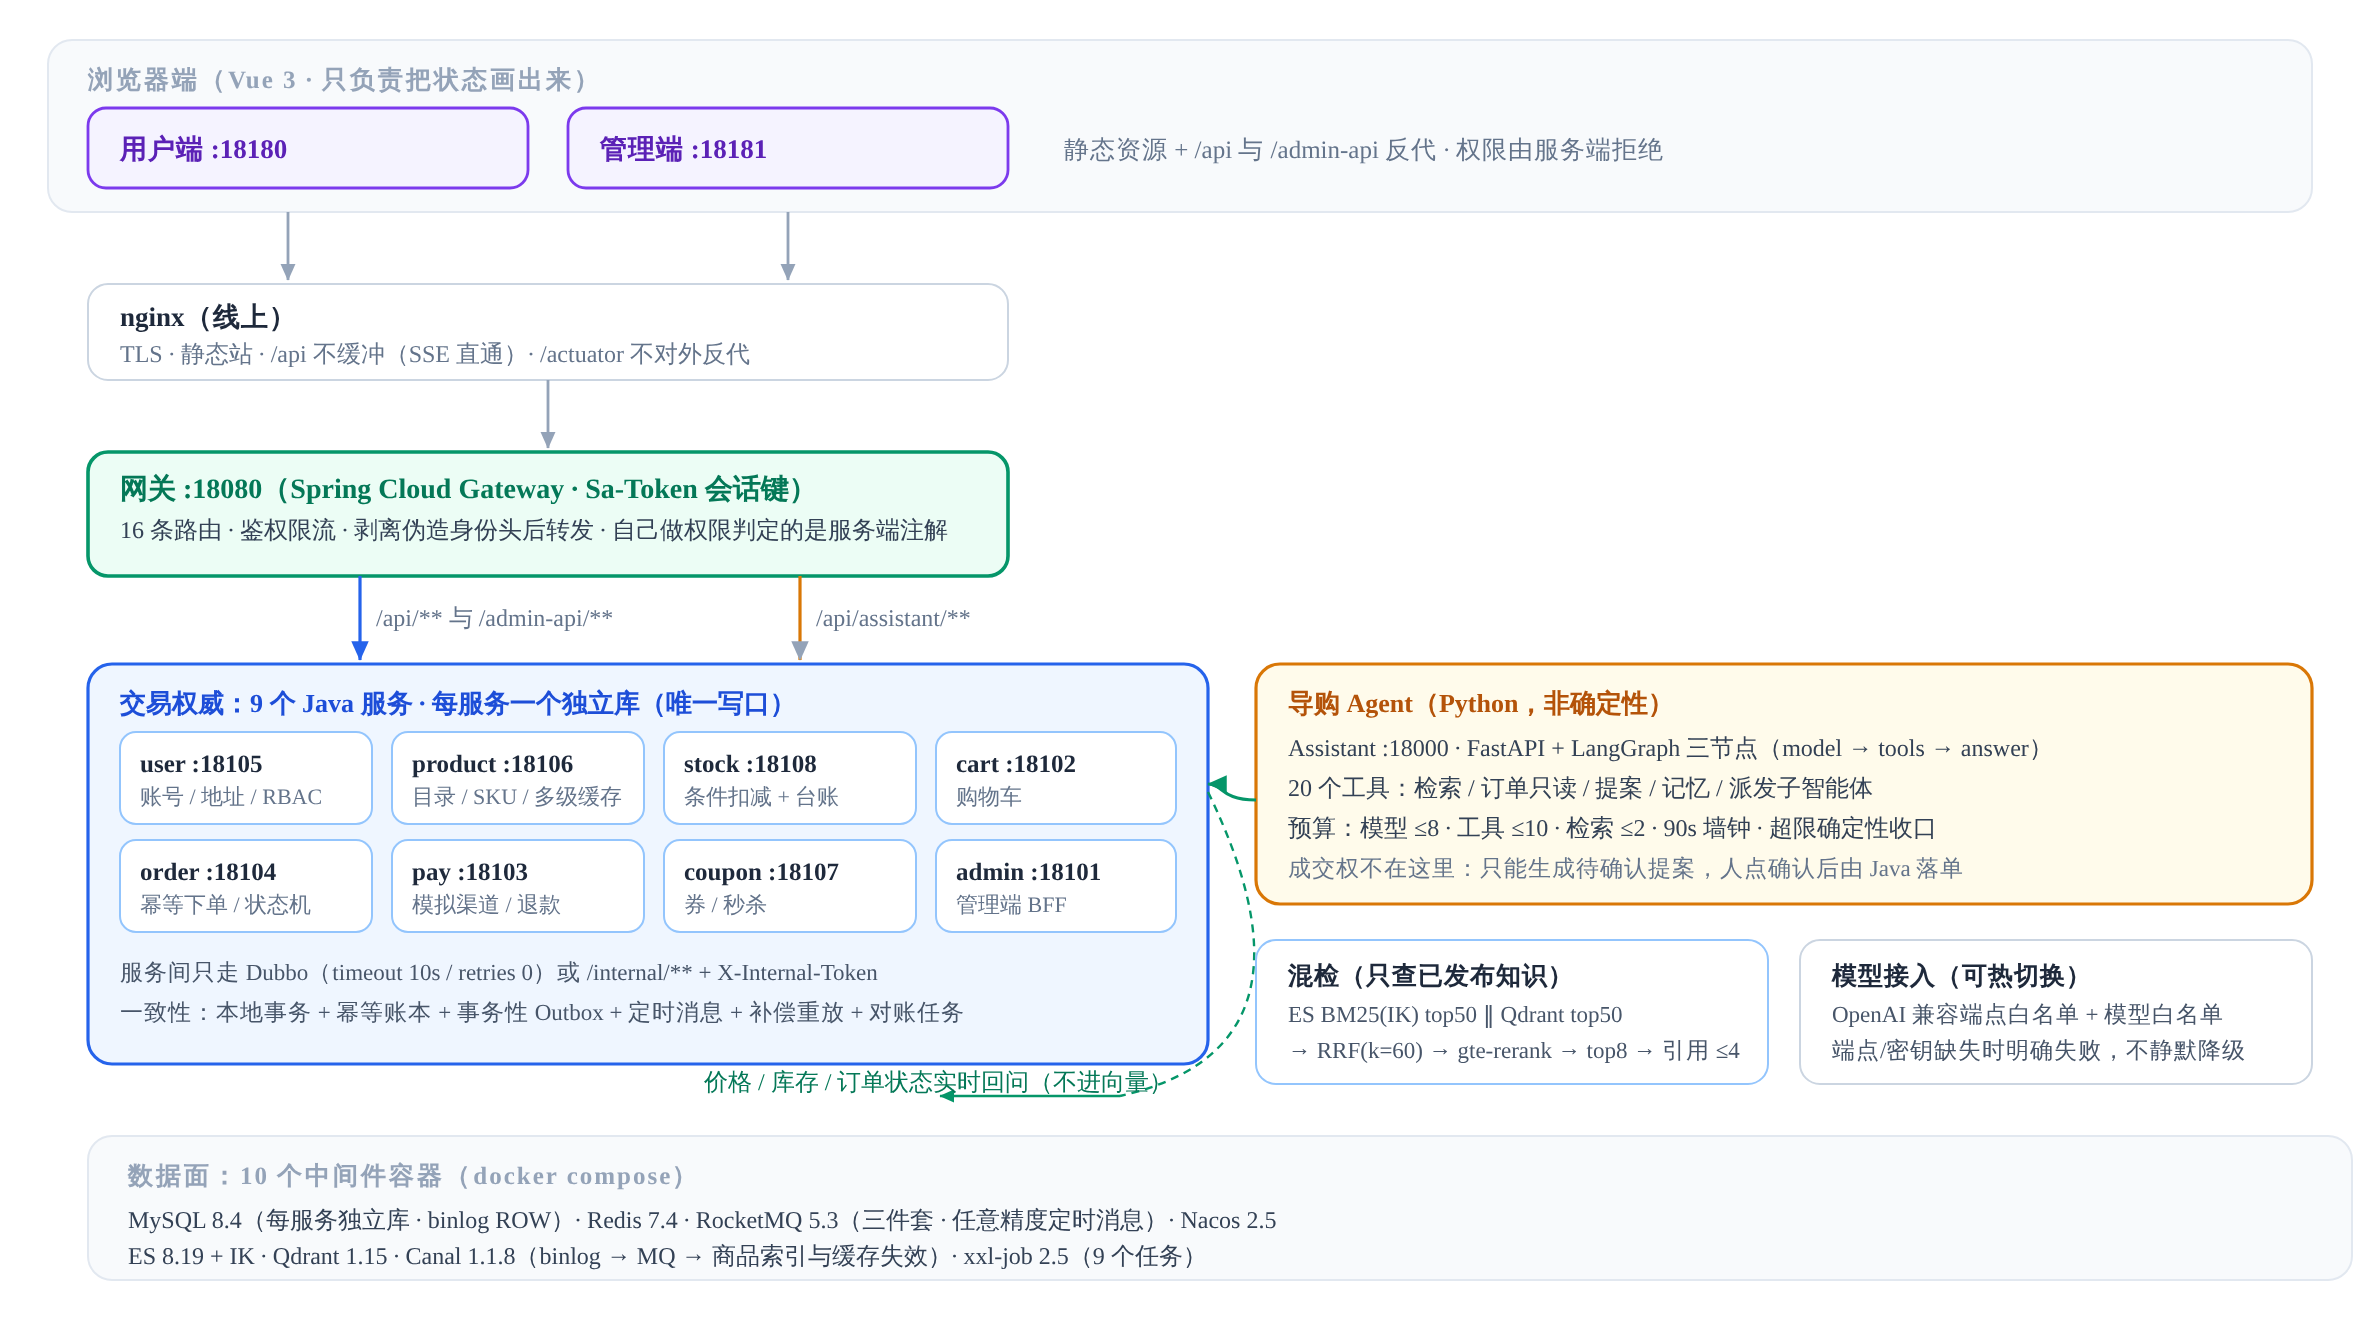
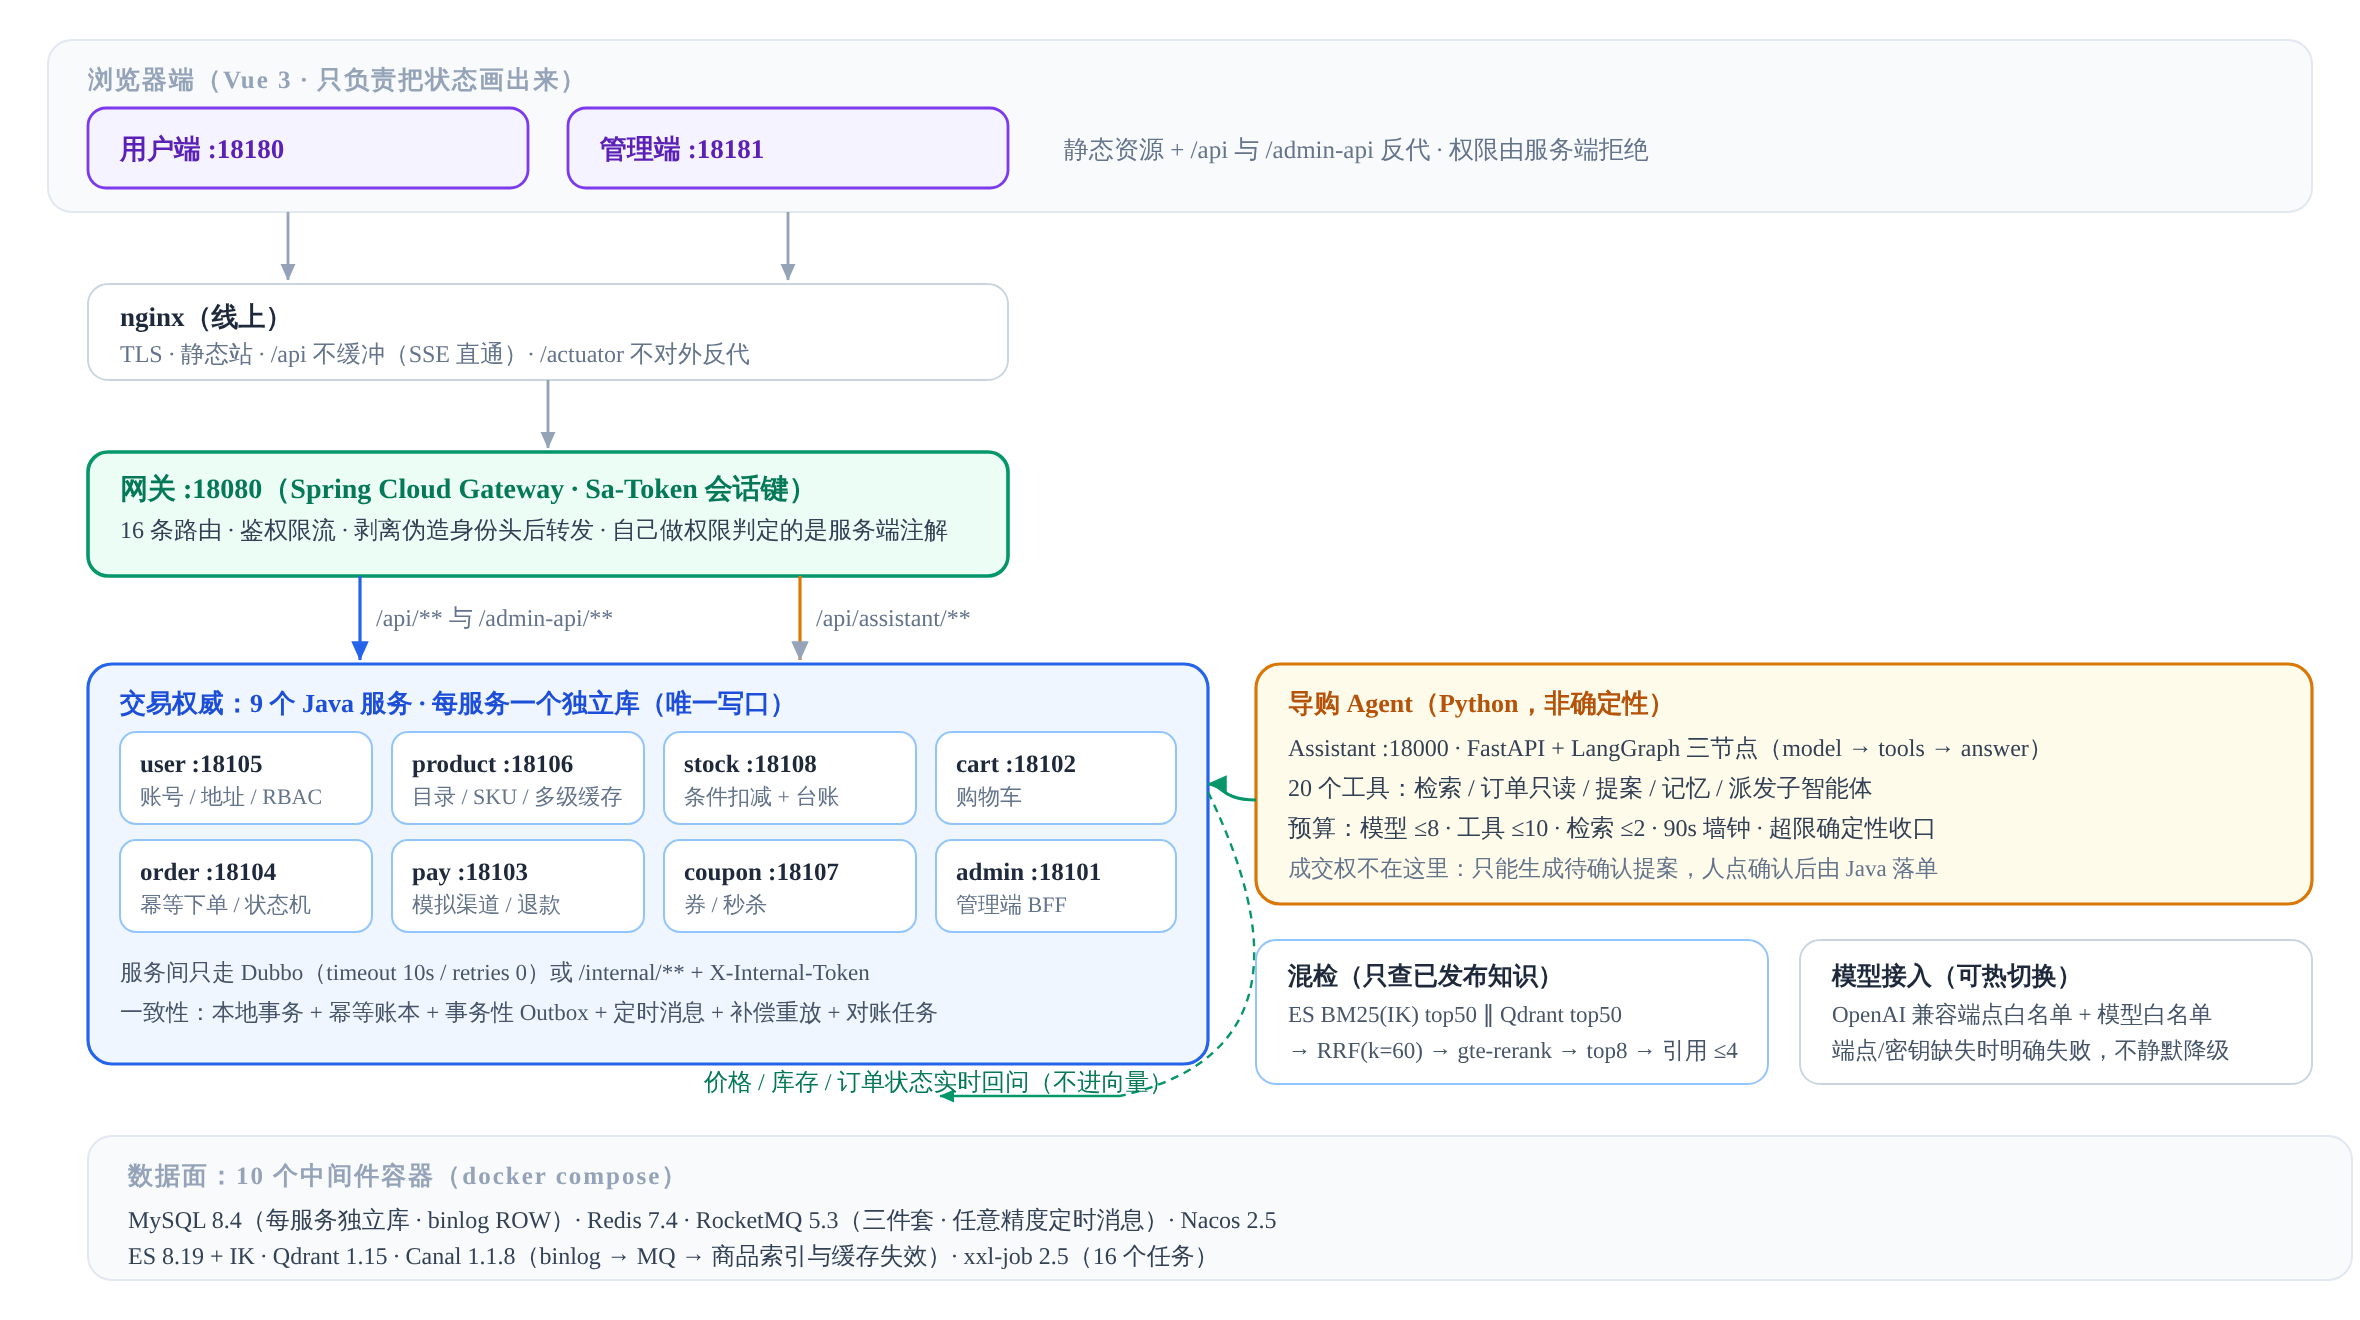
docs: 同步本轮修复与部署后的说明面
- README：任务数 16、Outbox 兜底按 6 库注册（删除"只挂 order"的旧说法）、
  xxl-job 地址链补调度中心绑定、展厅清单不再当 RBAC 证明、
  压测口径改为峰值/可持续两档（原"p95 400ms 档"与证据不符）
- 架构图（SVG+PNG）：xxl-job 任务数 9→16
- cluster README：MySQL/xxl-job 绑定环境变量、安全组端口补 18090/13306、
  `--force-recreate` 连带重建依赖容器的实测警告
- .env.example：补 SMARTLECT_MYSQL_BIND / SMARTLECT_XXLJOB_BIND

diff --git a/README.md b/README.md
@@ -234,7 +234,7 @@ python3 scripts/coverage_gate.py                  # 行覆盖率对比 backend/j
 ```bash
 ./scripts/dev.sh infra-check    # 中间件健康 + 权限隔离（app/flyway 只能碰自己的库）
 ./scripts/dev.sh apps-check     # 12 个进程健康 + Nacos 注册数
-python3 scripts/xxljob_setup.py # 幂等登记 15 个调度任务（只加注解不会执行）
+python3 scripts/xxljob_setup.py # 幂等登记 16 个调度任务（只加注解不会执行）
 ```
 
 公开评测（导购 / 客服两条线，各自的分母与指标，不合成总分）的题库与判分器在 `evals/`，运行入口 `scripts/eval_quality_v2.py`、`scripts/eval_support_eval.py`；原始证据按日期归档在 `eval/verification/`。
@@ -272,8 +272,8 @@ Agent 侧另有 FastAPI `/metrics`（`assistant_*`：准入拒绝、反馈、预
 |---|---|---|
 | 站点 | `http://127.0.0.1/` | nginx 反代网关，`/actuator` 与业务端口不对公网开放 |
 | 网关健康 | `:18080/actuator/health` | 依赖 Redis / Nacos 的存活探针 |
-| 调度中心 | `:18090/xxl-job-admin` | 16 个任务的执行记录、手动触发、失败重试；**判断"任务在跑"看 handle_code=200**，只看触发会漏掉"调度成功但执行器不可达" |
-| 展厅账号策略 | `TrialAdminAccess` + `TrialAdminGuardInterceptor` | 公开口令的 gallery 账号：**读默认允许（隐私清单除外）、写默认拒绝**（退款复核显式放行）；清单完整性由 `scripts/check_admin_authz.py` 门禁强制 |
+| 调度中心 | `:18090/xxl-job-admin` | 16 个任务的执行记录、手动触发、失败重试；**判断"任务在跑"看 handle_code=200**，只看触发会漏掉"调度成功但执行器不可达"；集群必须用 `SMARTLECT_XXLJOB_BIND=node1 内网 IP`（只绑回环时三节点执行器全部失联） |
+| 展厅账号策略 | `TrialAdminAccess` + `TrialAdminGuardInterceptor` | 公开口令的 gallery 账号：**读默认允许（隐私清单除外）、写默认拒绝**（退款复核显式放行）。清单是展厅的第二道防线，**不是 RBAC**：管理端写接口必须自带 `@SaCheckPermission`，由 `scripts/check_admin_authz.py` 强制（不再接受"在拒绝清单里"作为保护证明） |
 | 配置中心 | `:18848` Nacos 控制台 | `SMARTLECT_GROUP` 下的配置；改完用 `scripts/nacos_config_push.py` 推送 |
 | 指标 | 各服务 `/actuator/prometheus` | JVM / Hikari / 线程池 / 业务指标；只从内网抓 |
 | 应用日志 | `run/logs/<服务>.log` | 启动失败先看这里；`run/logs/<服务>/nacos/` 是注册与配置客户端日志 |
@@ -315,14 +315,16 @@ bash sync-app-node.sh node3 "gateway,product,order,user,cart"
 
 ## 已知边界与遗留
 
-- **演示规模**：单机 MySQL、演示目录（47 个商品 / 20 SKU 场景 + 8.7 万条索引）、压测注入的并发（集群峰值 832 req/s @1600 并发，p95 400ms 档），不是生产流量。
+- **演示规模**：单机 MySQL、演示目录（47 个商品 / 20 SKU 场景 + 8.7 万条索引）、压测注入的并发（集群峰值 832 req/s @1600 并发，p95 4655ms；可持续档 811 req/s @600 并发，p95 ≈200ms；压测工具自身有已知偏高口径），不是生产流量。
 - **MQ 是单点**：DLedger 三副本编排已就绪但线上未启用，如实记录。
-- **从机 Outbox 兜底不全**：兜底投递目前只挂在 order 组，pay / product 等库依赖 afterCommit 即时投递，没有调度重扫。
+- **Outbox 兜底按库注册**：`outboxDispatch` 在 order/user/product/cart/pay/admin 六个库各登记一份（各扫本库）；其余域没有 `local_message_outbox`，不适用。没有"一个任务扫所有库"的全局兜底。
 - **幂等账本无业务参数**：账本不存下游业务 id，因此 `INCONCLUSIVE / MANUAL_REVIEW` 不能自动改判，只能由运维带业务参数驱动核对（`scripts/reconcile_idempotency.py` + `orderIdempotencyReconcile` 上报）；要让它自动闭环，需要在业务行上冗余幂等键（列变更 + 回填，未做）。
 - **Sentinel 规则热更**（Nacos 数据源）已完成代码侧，线上演练未做。
-- **本地 xxl-job 执行器地址**：调度中心在容器、应用在宿主机，执行器必须自报
-  `http://host.docker.internal:<port>`（`SMARTLECT_XXLJOB_EXECUTOR_HOST` 由 bootstrap 注入，
-  端口按服务分配）；否则触发全部超时、兜底任务静默不执行——2026-10-16 故障演练定位并修复。
+- **xxl-job 的地址链**：应用在宿主机、调度中心在容器，两端都要能被对方访问——
+  执行器要自报"容器能回拨"的地址（单机 `host.docker.internal:<port>`，由 `SMARTLECT_XXLJOB_EXECUTOR_HOST` 注入；
+  副本节点用本机内网 IP），调度中心自身要绑"三节点都能访问"的地址（`SMARTLECT_XXLJOB_BIND`，
+  集群=node1 内网 IP，单机默认回环）。任一环节错，表现为"触发成功但任务不执行 / 执行器地址列表为空"，
+  且没有显式报错——2026-10-16（执行器地址）与 10-17（调度中心绑回环 + 容器缺 host 映射）各踩过一次。
 - **`deploy/seata/` 残留**：历史容器卷挂载留下的 root 属主空目录，未纳入版本控制，本地删除需 sudo。
 - **`smartlect_growth`**：助手库与账号沿用历史命名（环境变量已统一为 `SMARTLECT_ASSISTANT_*`），改名需数据迁移，暂不动。
 - **集成档进 CI 前的老问题**：`OutboxLeaseSqlIT` 曾因 MySQL 秒级 DATETIME 的四舍五入而抖动（创建时刻落在"未来 1 秒"），已回拨 create_time 修复。

diff --git a/deploy/cluster/README.md b/deploy/cluster/README.md
@@ -22,11 +22,17 @@ IP/端口集中定义在 [nodes.env](nodes.env)，脚本都从这里取，不再
 | RocketMQ | DLedger 三副本（Raft 自动选主） | 每节点 broker+namesrv+proxy（host 网络）；5.x 任意精度定时消息经 gRPC proxy；Topic/订阅组 autoCreate 重建，Outbox 补投未决消息，单机数据卷不动 |
 | Redis | 1 主（node1）+ 2 副本 + 3 Sentinel | host 网络；`replica-announce-ip` 必填（否则 sentinel 记错地址）；主库补 `masterauth` 以支持降级后再认证 |
 | Nacos | 3 节点 Raft | host 网络 8848/9848/7848；三成员**共用 node1 MySQL 的 `smartlect_nacos` 库**，所以从 standalone 切过来零数据迁移 |
-| MySQL | 仍单机（node1） | 只增加内网绑定 172.21.131.151:13306 供 node2/3 访问；主从/切换不在本次范围 |
+| MySQL | 仍单机（node1） | 端口绑定由 `SMARTLECT_MYSQL_BIND` 决定：单机默认 `127.0.0.1`，集群写 node1 内网 IP 供 node2/3 访问；主从/切换不在本次范围 |
+| xxl-job | 单实例（node1 容器） | 调度中心端口绑定由 `SMARTLECT_XXLJOB_BIND` 决定（集群=node1 内网 IP）；容器需 `host.docker.internal` 映射才能回调宿主机执行器 |
 
 **为什么密钥不入库**：`gen-cluster-env.sh` 从 node1 既有的 `run/runtime.env` 读取
 （Redis 密码、Nacos token/identity、MySQL 密码），只新增 erlang cookie 一项。
 含密码的 `sentinel.conf` 也是构建期现场生成。仓库里没有任何凭据。
+
+**改端口绑定前先比对运行态**：`docker compose up -d --force-recreate <svc>` 会按声明**连带对齐依赖容器**。
+2026-10-17 实测：重建 xxl-job-admin 时 mysql 也被重建，两处长期未应用的
+`127.0.0.1` 绑定同时生效，导致全网新连接失败。重建前用
+`docker inspect` 对比 `Ports`，或确认 compose 与运行态一致后再动手。
 
 ## 安全组（应用端口不对公网）
 
@@ -34,7 +40,8 @@ IP/端口集中定义在 [nodes.env](nodes.env)，脚本都从这里取，不再
 所以**应用端口的安全边界是安全组，不是应用配置**：
 
 - 公网只放行 **80/443**（nginx）与运维入口（22）。
-- **18080-18108 只对节点内网放行**（18080 网关、18101-18108 各服务、18180/18181 前端）。
+- **18080-18108、18090、13306 只对节点内网放行**（18080 网关、18101-18108 各服务、18180/18181 前端、
+  调度中心 18090、MySQL 13306）。
   任何一条放行到 `0.0.0.0/0` 的规则，都等于把 `/actuator/prometheus`（JVM/连接池/线程池指标）
   和绕过 nginx 的业务接口直接暴露给外网。
 - 生产就绪模式（`SMARTLECT_PRODUCTION_READY=true` 或 prod profile）下，
